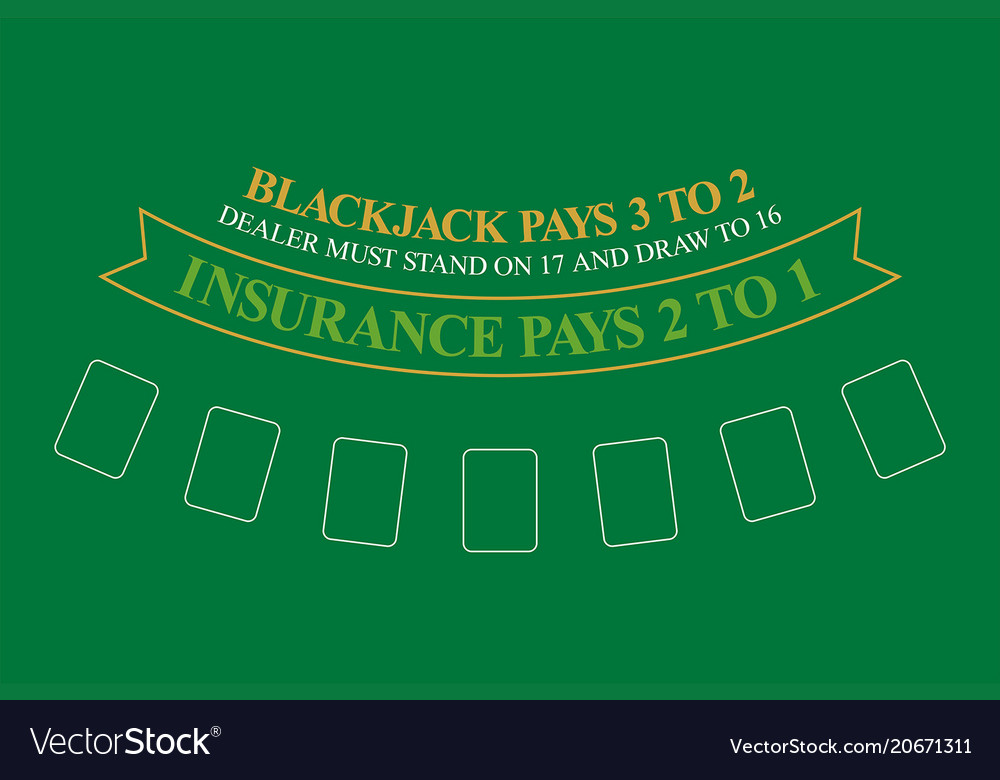
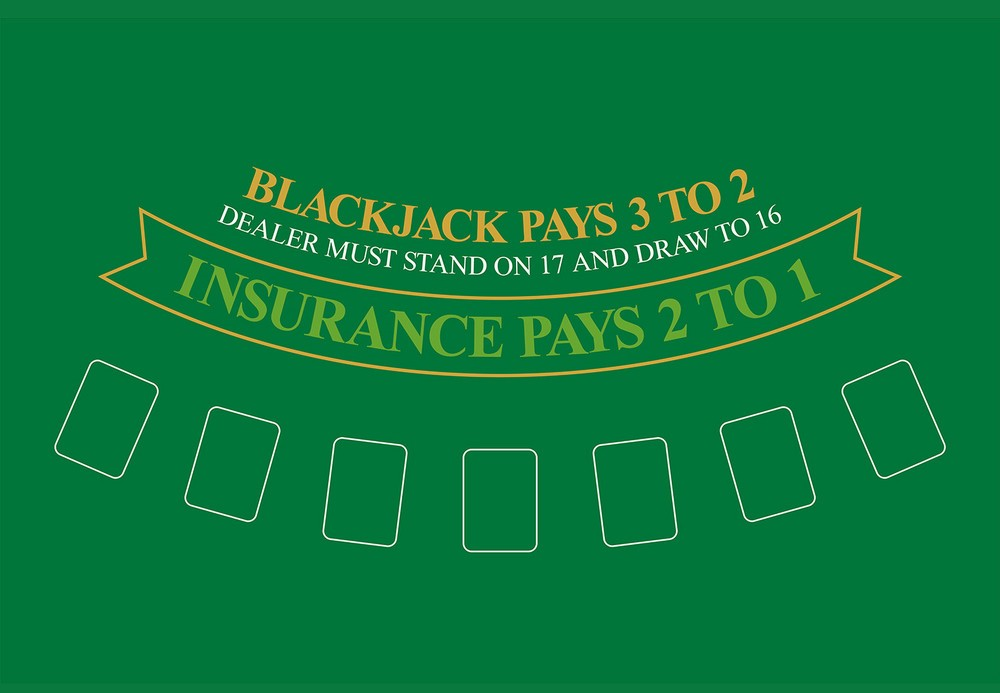
blackjack table mostly responsive to resktop views

diff --git a/blackjack/src/Play.js b/blackjack/src/Play.js
@@ -75,6 +75,22 @@ const { dealHand, dealOneCard, dealerHandImages, playerHandImages, playerHandIma
     return (
         <div className='playContainer'>
             <div className='table'>
+
+            <div className='bankOptions'>
+                    <div className='deckInfo' >
+                        <h2 className='helpTitle'>Deck Stats</h2>
+                        <h3 className='handTotals'>Decks Played: {decksPlayed}</h3>
+                        <h3 className='handTotals'>Remaining Decks: {remainingDecks} </h3>
+                    </div>
+                    
+                    <div className='bankStats'>
+                        <h2  className='helpTitle'>Player Bankroll: ${playerBankroll} </h2>
+                        <h3  className='handTotals'>Player Bet: ${playerBet} </h3>
+                        <h3  className='handTotals'>Double Bet: ${dbl}</h3>
+                    </div>
+                    <button className='clearBetButton' onClick={clearBet} > Clear Bet </button>
+                </div>
+
                 <div className='dealerHand'>
                 {dealerHandImages.map(dealtCard => <DisplayACard card={dealtCard} />)}
                 <img className={dealerCardBackShowing? 'cardBackVisible' : 'cardBackHidden'} src={cardBack } alt=''></img>
@@ -83,7 +99,7 @@ const { dealHand, dealOneCard, dealerHandImages, playerHandImages, playerHandIma
                 <div className='statsContainer'>
                 <button className='showHelpButton' onClick={hideShowAdvice} > {showTheAdvice}</button>
                 <div className={showAdviceDiv ? 'showAdvice' : 'hideAdvice'}>
-                    <h2 className='helpTitle'>Help</h2>
+                    <h2 className='helpTitle'>Hand Totals</h2>
                     <h3 className='handTotals'>Dealer Total: {dealerHandTotal}</h3>
                     <h3 className='handTotals'>Player Total: {playerHandTotal} </h3>
                 </div>
@@ -102,17 +118,24 @@ const { dealHand, dealOneCard, dealerHandImages, playerHandImages, playerHandIma
                 <div className='centerTableOptions'>
                     
                     <button className='dealHandButton' onClick={dealHand} >Deal Hand</button><br></br>
-                    <div>
-                    <button className='playButtons' onClick={dealOneCard} >Hit</button>
-                    <button className='playButtons' onClick={playerStands} > Stand </button>
-                    <button className='playButtons' onClick={playerDoubles} > Double </button>
-                    <button className='playButtons' onClick={playerSplits} > Split </button>
+                    <div className='centerPlayButtonContainer'>
+                        <button className='playButtons' onClick={dealOneCard} >Hit</button>
+                        <button className='playButtons' onClick={playerStands} > Stand </button>
+                        <button className='playButtons' onClick={playerDoubles} > Double </button>
+                        <button className='playButtons' onClick={playerSplits} > Split </button><br></br>
+                    </div>
+                    <div> 
                     { stat }
                     </div>
                     
                 </div>
               
                 {splitTheseCards}
+                
+
+                <div className='playerHand'>
+                    {playerHandImages.map(dealtCard => <DisplayACard card={dealtCard} />)}                 
+                </div>
                 <div className='chipContainer'>
                     <img src={oneDollar} onClick={bet1} alt='chip' className='pokerChip'></img>
                     <img src={fiveDollar} onClick={bet5} alt='chip' className='pokerChip'></img>
@@ -121,27 +144,11 @@ const { dealHand, dealOneCard, dealerHandImages, playerHandImages, playerHandIma
                     <img src={hundredDollar} onClick={bet100} alt='chip' className='pokerChip'></img>
                     <img src={fiveHundredDollar} onClick={bet500} alt='chip' className='pokerChip'></img>
                 </div>
-
-                <div className='playerHand'>
-                    {playerHandImages.map(dealtCard => <DisplayACard card={dealtCard} />)}                 
-                </div>
+                
                 <SplitHand playerClickedSplit={playerClickedSplit} splitCards={playerHandImages2} />
                 {/* <Hand playerClickedSplit={playerClickedSplit} playerHandImages={playerHandImages} card={dealtCard} /> */}
                 
-                <div className='bankOptions'>
-                    <div className='deckInfo' >
-                        <h2 className='helpTitle'>Deck Stats</h2>
-                        <h3 className='handTotals'>Decks Played: {decksPlayed}</h3>
-                        <h3 className='handTotals'>Remaining Decks: {remainingDecks} </h3>
-                    </div>
-                    
-                    <div className='bankStats'>
-                        <h2  className='helpTitle'>Player Bankroll: ${playerBankroll} </h2>
-                        <h3  className='handTotals'>Player Bet: ${playerBet} </h3>
-                        <h3  className='handTotals'>Double Bet: ${dbl}</h3>
-                    </div>
-                    <button className='clearBetButton' onClick={clearBet} > Clear Bet </button>
-                </div>
+                
             </div>
         </div>
     )

diff --git a/blackjack/src/css/play.css b/blackjack/src/css/play.css
@@ -14,18 +14,13 @@
 }
 .dealerHand{
     margin-top: 5%;
-    height: 30vh;
-    width: 30vw;
-    margin-left: 40%;
-    margin-right: auto;
     display: flex;
+    justify-content: center;
 }
 .playerHand{
-    height: 30vh;
-    width: 30vw;
-    margin-left: 40%;
     margin-right: auto;
     display: flex;
+    justify-content: center;
 }
 button{
     border-radius: 50%;
@@ -39,26 +34,27 @@ button{
     border: 2px solid black;
     transition: .3s ease-out;
     opacity: .7;
+    font-size: 2.5vw;
 }
 .playButtons:hover{
     transition: .3s ease-out;
     opacity: 1;
 }
 .displayCard{
-    height: auto;
-    width: 30%;
+    width: auto;
+    height: 30vh;
 }
 .chipContainer{
-   margin-left: 1%;
+   display: flex;
+   justify-content: center;
+
 }
 .pokerChip{
-    width: 5vw;
-    height: auto;
-    float: left;
-    margin-top: 8%;
+    width: auto;
+    height: 10vh;
     border: 1px solid white;
     border-radius: 50%;
-    margin-left: 4px;
+    margin: 1vw;
     transition: .1s ease-out;
 }
 .pokerChip:hover{
@@ -74,13 +70,13 @@ button{
     padding: 3%;
     padding-bottom: 0;
     margin-bottom: 0;
-    position: absolute;
-    margin-right: 10%;
-    top: 35%;
+    top: 40%;
     border-radius: 20px;
     border: 2px solid black;
     opacity: .6;
-    width: 100%;
+    width: 90%;
+    height: auto;
+    
 
 }
 .hideCountStats{
@@ -97,18 +93,17 @@ button{
     padding: 3%;
     padding-bottom: 0;
     margin-bottom: 0;
-    position: absolute;
-    margin-right: 10%;
     top: 12%;
-    width: 100%;
+    width: 90%;
+    height: auto;
     border-radius: 20px;
     border: 2px solid black;
     opacity: .6;
+    margin-bottom: 5vh;
 }
 .hideAdvice{
     height: 100px;
     width: 20%;
-    background-color: lightsalmon;
     position: absolute;
     right: 0;
     top: 10%;
@@ -122,14 +117,15 @@ button{
 }
 
 .statsContainer{
-    height: 600px;
-    width: 250px;
+    height: 100vh;
+    width: 18vw;
     position: absolute;
-    left: 81%;
-    top: 10%;
+    left: 82%;
+    top: 7%;
     display: flex;
     flex-direction: column;
     align-items: center;
+   
 
 }
 .centerTableOptions{
@@ -144,11 +140,13 @@ button{
     margin: 0;
     padding-left: 0px;
     text-align: center;
-    border-bottom: 3px solid black
+    border-bottom: 3px solid black;
+    font-size: 1.5vw;
 }
 .handTotals{
     margin: 0;
     padding: 4px;
+    font-size: 1.2vw;
     
 }
 .showHelpButton{
@@ -160,28 +158,31 @@ button{
     top: 1%;
     opacity: .8;
     transition: .3s ease-out;
+    font-size: 2vw;
+    margin-bottom: 3vh;
 }
 .showHelpButton:hover{
     transition: .3s ease-out;
     opacity: 1;
-    padding-left: 30px;
-    padding-right: 30px;
+    padding-left: 2vw;
+    padding-right: 2vw;
 }
 .showCountButton{
     border-radius: 5px;
     padding: 3px;
     margin: 3px;
     border: 2px solid black;
-    position: relative;
-    top: 67%;
     opacity: .8;
     transition: .3s ease-out;
+    font-size: 2vw;
+    margin-top: 3vh;
+    height: auto;
 }
 .showCountButton:hover{
     transition: .3s ease-out;
     opacity: 1;
-    padding-left: 25px;
-    padding-right: 25px;
+    padding-left: 2vw;
+    padding-right: 2vw;
 }
 .dealHandButton{
     background-color: black;
@@ -194,6 +195,7 @@ button{
     border: 2px solid white;
     opacity: .8;
     transition: .3s ease-out;
+    font-size: 2.5vw;
 }
 .dealHandButton:hover{
     transition: .3s ease-out;
@@ -211,20 +213,21 @@ button{
     opacity: .8;
     transition: .3s ease-out;
     margin-top: 5%;
+    font-size: 2vw;
 }
 .clearBetButton:hover{
     transition: .3s ease-out;
     opacity: 1;
-    padding-left: 30px;
-    padding-right: 30px;
+    padding-left: 2vw;
+    padding-right: 2vw;
 }
 
 .bankOptions{
-    height: 500px;
-    width: 240px;
+    height: 75vh;
+    width: 18vw;
     position: absolute;
     left: 0%;
-    top: 10%;
+    top: 7%;
     display: flex;
     flex-direction: column;
     align-items: center;
@@ -244,7 +247,7 @@ button{
     border: 2px solid black;
     opacity: .6;
     width: 90%;
-    margin-top: 0%;
+    margin-top: 2%;
 }
 .tableOutcome{
     color: white;
@@ -255,13 +258,19 @@ button{
     padding-bottom: 0;
 }
 .cardBackVisible{
-    width: 32%;
-    height: auto;
+    width: auto;
+    height: 30.5vh;
     opacity: 1;
 }
 .cardBackHidden{
-    width: 10%;
-    height: auto;
+    width: auto;
+    height: 30vh;
     opacity: 0;
+}
+.centerPlayButtonContainer{
+    display: flex;
+    justify-content: center;
+    align-items: center;
+    align-content: center;
 }
 

diff --git a/blackjack/src/css/navbar.css b/blackjack/src/css/navbar.css
@@ -3,7 +3,7 @@
     border: 1px solid black;
     display: flex;
     justify-content: space-evenly;
-    height: 40px;
+    height: 3vw;
     align-items: center;
     opacity: .9;
     border-bottom: white solid 2px;
@@ -16,8 +16,8 @@
     padding-left: 5px;
     padding-right: 5px;
     text-decoration: none;
-    border-bottom: #FFF 3px solid;
-    font-size: 1.2em;
+    border-bottom: #FFF .2vw solid;
+    font-size: 1.5vw;
     transition: .3s ease-out;
 }
 
